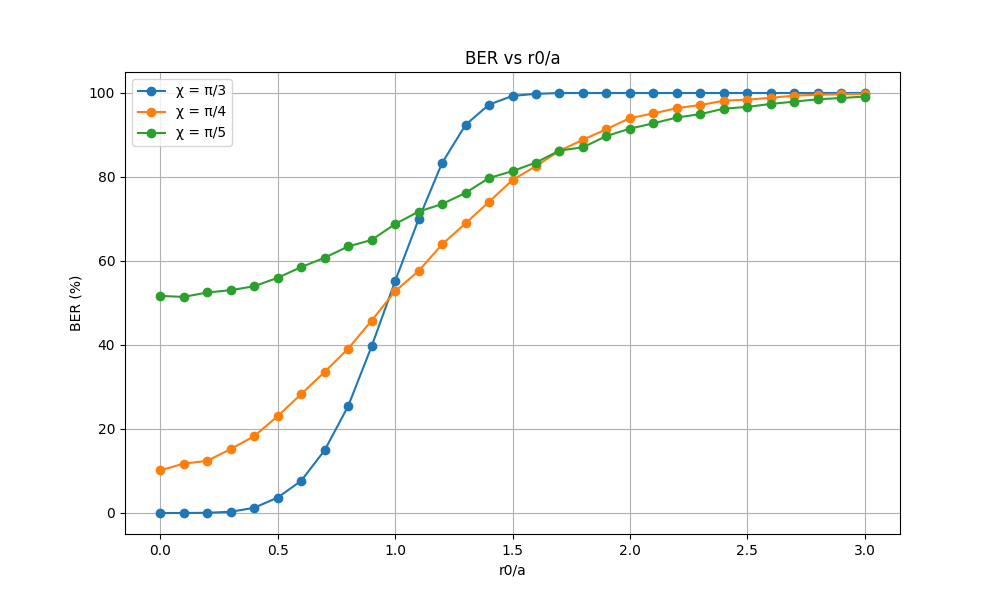
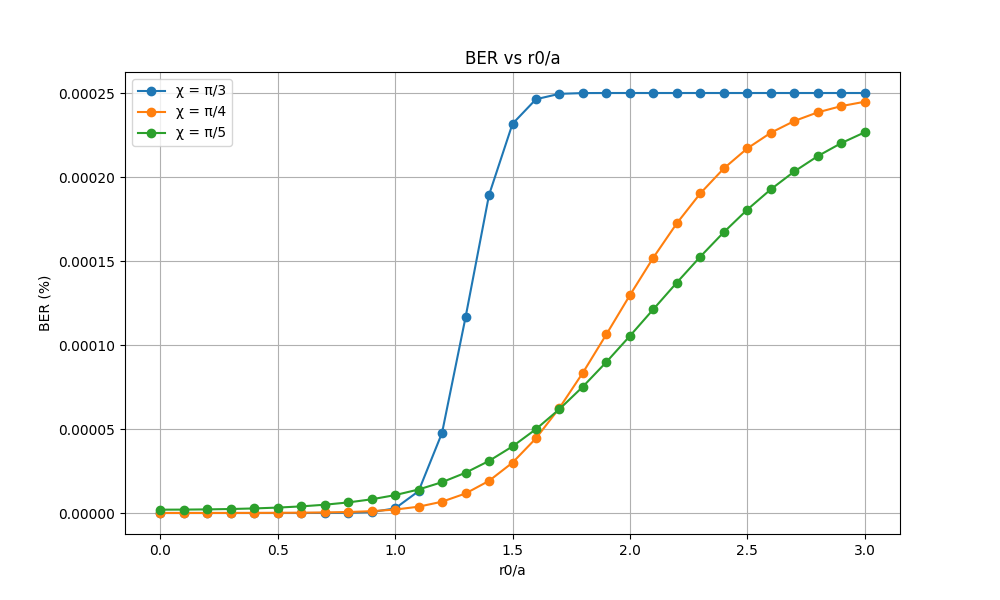
conduct a simulation for theoretical bir error rate(BER)

diff --git a/BB84/SimulationResult/qber.py b/BB84/SimulationResult/qber.py
@@ -1,22 +1,12 @@
-# Upgrade qiskit version to 2.0.0
-from qiskit import QuantumCircuit
-from qiskit_aer import AerSimulator
-from qiskit_aer.noise import (NoiseModel, pauli_error)
+from scipy.special import lambertw, i0, i1
 import math
 import numpy as np
-import socket
-import os, sys
 import matplotlib.pyplot as plt
+import os, sys
 simulation_path = os.path.abspath(os.path.join(os.path.dirname(__file__), '..', 'Model'))
 sys.path.append(simulation_path)
 from receiver_efficiency import transmissivity, to_decimal_string
 
-
-backend = AerSimulator()
-
-#===============Deefinition of parameter===============#
-count = 1000
-no_qubits = 20
 D_r = 0.35 # D_r    : Deceiver diameter in meters
 a = D_r/2  # a      : Aperture of radius (Receiver radis in meters)
 ratios = np.arange(0, 3.1, 0.1)
@@ -27,179 +17,33 @@ chi = [math.pi/3, math.pi/4, math.pi/5]
 chi_show = [3, 4, 5]
 
 
-class User:
-    def __init__(self, username: str, sharekey, socket_classical, socket_quantum):
-        self.username = username
-        self.sharekey = sharekey
-        self.socket_classical = socket_classical
-        self.socket_quantum = socket_quantum
-
-    def create_socket_for_classical(self):
-        SERVER_HOST_CLASSICAL = '127.0.0.1'
-        SERVER_PORT_CLASSICAL = 12001
-        client_socket_classical = socket.socket(socket.AF_INET, socket.SOCK_STREAM)
-        client_socket_classical.connect((SERVER_HOST_CLASSICAL, SERVER_PORT_CLASSICAL))
-        self.socket_classical = client_socket_classical        
-
-user0 = User("Alice", None, None, None) 
-user1 = User("Bob", None, None, None)
-
-
-def generate_Siftedkey(user0, user1, num_qubits, eta_b):
-    alice_bits = qrng(num_qubits)
-    alice_basis = qrng(num_qubits)
-    bob_basis = qrng(num_qubits)
-    eve_basis = qrng(num_qubits)
-
-    # Alice generates qubits
-    qc = compose_quantum_circuit(num_qubits, alice_bits, alice_basis)
-
-    # Quantum Circuit for Eve
-    qc2 = compose_quantum_circuit_for_eve(num_qubits, alice_bits, alice_basis)
-
-    # Comparison their basis between Alice and Eve
-    ae_basis, ae_match = check_bases(alice_basis, eve_basis)
-
-    # Apply the quantum error chanel
-    noise_model = apply_noise_model(eta_b)
-
-    # Bob measures Alice's qubit
-    qc, bob_bits = bob_measurement(qc, bob_basis, noise_model)
-
-    altered_qubits = 0
-
-    user0.create_socket_for_classical()
-    user1.create_socket_for_classical()
-    sender_classical_channel = user0.socket_classical
-    receiver_classical_channel = user1.socket_classical
-
-    ka = ''  # Alice's sifted key
-    kb = ''  # Bob's sifted key
-    err_num = 0
-
-    # Announce bob's basis
-    receiver_classical_channel.send(bob_basis.encode('utf-8'))
-    bob_basis = sender_classical_channel.recv(4096).decode('utf-8')
-    ab_basis, ab_matches = check_bases(alice_basis, bob_basis)
-    ab_bits = check_bits(alice_bits, bob_bits, ab_basis)
-
-    for i in range(num_qubits):
-        if ae_basis[i] != 'Y' and ab_basis[i] == 'Y': # Alice and Eve bases differ
-            altered_qubits += 1
-        if ab_basis[i] == 'Y':  # Alice and Bob bases match
-            ka += alice_bits[i]
-            kb += bob_bits[i]
-        if ab_bits[i] == '!':  # Bits differ
-            err_num += 1
-    err_str = ''.join(['!' if ka[i] != kb[i] else ' ' for i in range(len(ka))])
+#=======================================================#
+# Channel loss parameter
+#=======================================================#
+    #=====================#
+    # n_s   : average numher of photon
+    # n_D   : dark-current-equivalent averrage photon number
+    # eta   : 
+    # n_B   : background photons per polarization
+    # n_N   : the average number of noise photon reaching each detector
+    # gamma : the fraction of transmmited photon
+    #======================#
+n_s = 20
+n_D = math.pow(10, -6)
+eta = 0.5  
+n_B = math.pow(10, -3)
+n_N = n_B/2 + n_D
 
 
-    sender_classical_channel.close()
-    receiver_classical_channel.close()
-
-    return ka, kb
-
-
-def qrng(n):
-    qc = QuantumCircuit(n, n)
-    for i in range(n):
-        qc.h(i)  # Apply Hadamard gate
-    qc.measure(range(n), range(n))
-    job_result = backend.run(qc, shots=1).result()
-    counts = job_result.get_counts()
-
-    # 取得した測定結果の中で最も出現回数が多いものを採用
-    max_key = max(counts, key=counts.get)
-    bits = ''.join(reversed(max_key))  # ビット列を逆順にして取得
-
-    return bits
+def qber(gamma):
+    # prob_error = eta * n_N * math.exp(-eta(n_s*gamma+4*n_N))
+    prob_error = eta * n_N * math.exp(-eta * (n_s * gamma + 4 * n_N))
+    return prob_error
 
 
-def encode_qubits(n, k, a):
-    qc = QuantumCircuit(n, n)
-    for i in range(n):
-        if a[i] == '0':
-            if k[i] == '1':
-                qc.x(i)
-        else:
-            if k[i] == '0':
-                qc.h(i)
-            else:
-                qc.x(i)
-                qc.h(i)
-    qc.barrier()
-    return qc
-
-
-def compose_quantum_circuit(num_qubit, alice_bits, alice_basis) -> QuantumCircuit:
-    qc = QuantumCircuit(num_qubit, num_qubit)
-    qc.compose(encode_qubits(num_qubit, alice_bits, alice_basis), inplace=True)
-    return qc
-
-
-def compose_quantum_circuit_for_eve(num_qubit, alice_bits, alice_basis) -> QuantumCircuit:
-    qc2 = QuantumCircuit(num_qubit, num_qubit)
-    qc2.compose(encode_qubits(num_qubit, alice_bits, alice_basis), inplace=True)
-    return qc2
-
-
-def apply_noise_model(eta_b):
-    error_meas = pauli_error([('X', 1-eta_b), ('I', eta_b)])
-    noise_model = NoiseModel()
-    noise_model.add_all_qubit_quantum_error(error_meas, "measure")
-    return noise_model
-
-
-def bob_measurement(qc, bob_basis, noise_model):
-    for i in range(len(bob_basis)):
-        if bob_basis[i] == '1':  # Diagonal basis
-            qc.h(i)
-
-    qc.measure(range(len(bob_basis)), range(len(bob_basis)))
-
-    # Qiskit 2.0.0 では execute() を使わず backend.run(qc) を直接使用
-    # result = backend.run(qc, shots=1).result()
-    result = backend.run(qc, shots=1, noise_model=noise_model).result()
-    counts = result.get_counts()  # `.get_counts(0)` ではなく `.get_counts()` に変更
-
-    # 取得した測定結果の中で最も出現回数が多いものを採用
-    max_key = max(counts, key=counts.get)
-    bits = ''.join(reversed(max_key))  # ビット列を逆順にして取得
-
-    qc.barrier()
-    return qc, bits
-
-
-def check_bases(b1, b2):
-    check = ''
-    matches = 0
-    for i in range(len(b1)):
-        if b1[i] == b2[i]:
-            check += "Y"
-            matches += 1
-        else:
-            check += "-"
-    return check, matches
-
-
-def check_bits(b1, b2, bck):
-    check = ''
-    for i in range(len(b1)):
-        if b1[i] == b2[i] and bck[i] == 'Y':
-            check += 'Y'
-        elif b1[i] == b2[i] and bck[i] != 'Y':
-            check += 'R'
-        elif b1[i] != b2[i] and bck[i] == 'Y':
-            check += '!'
-        elif b1[i] != b2[i] and bck[i] != 'Y':
-            check += '-'
-    return check
-
-
-# Transmissity
-def simulation_eta_b():
+def simulation_gamma():
     # =======Definition of parameter =========== #
-    all_eta_b = []
+    all_gamma = []
 
     print("===============================")
     print(f'Aperture of radius (Receiver radis in meters): {a} m')
@@ -210,55 +54,34 @@ def simulation_eta_b():
         print(f'Chi: π / {chi_show[i]}')
 
         beam_centroid_displacement = [r / a for r in r0]
-        eta_b = [transmissivity(b, chi[i], mag_w1[i] * a, mag_w2[i] * a) for b in beam_centroid_displacement]
+        gamma = [transmissivity(b, chi[i], mag_w1[i] * a, mag_w2[i] * a) for b in beam_centroid_displacement]
         
-        # print("Transmissivity values:")
-        # for j, eta in enumerate(eta_b):
-        #     print(f"  r0/a = {ratios[j]} → <ηb> = {to_decimal_string(eta)}")
+        print("Transmissivity values:")
+        for j, eta in enumerate(gamma):
+            print(f"  r0/a = {ratios[j]} → <ηb> = {to_decimal_string(eta)}")
         
-        all_eta_b.append(eta_b)  # 各`eta_b`リストを追加
+        all_gamma.append(gamma)  # 各`eta_b`リストを追加
     
         print("===============================\n")
     
     print("Simulation Finish !!")
-    return all_eta_b  # 全てのeta_bリストを返す
-
-
-# Calculate the bit error rate
-def calculate_ber(ka, kb):
-    # キーの長さが一致していることを確認
-    if len(ka) != len(kb):
-        raise ValueError("Keys must be of the same length")
-
-    # エラー数のカウント
-    error_count = sum(1 for bit_a, bit_b in zip(ka, kb) if bit_a != bit_b)
-
-    # BERの計算
-    ber = (error_count / len(ka)) * 100
-    return ber
-
+    return all_gamma  # 全てのeta_bリストを返す
 
 def main():
-    all_ber_results = []
-    all_eta_b = simulation_eta_b()
+    all_prob_error = []
+    all_gamma = simulation_gamma()
     for i, (mag_w1_value, mag_w2_value, chi_value) in enumerate(zip(mag_w1, mag_w2, chi)):
-        ber_results = []
-        for j, ratio in enumerate(ratios):
-            eta_b = all_eta_b[i][j]
-            ka = ''
-            kb = ''
-            for _ in range(count):
-                part_ka, part_kb = generate_Siftedkey(user0, user1, no_qubits, eta_b)
-                ka += part_ka
-                kb += part_kb
-            ber = calculate_ber(ka, kb)
-            ber_results.append(ber)
-        all_ber_results.append(ber_results)
+        prob_error_result = []
+        for j, _ in enumerate(ratios):
+            gamma = all_gamma[i][j]
+            prob_error = qber(gamma)
+            prob_error_result.append(prob_error)
+        all_prob_error.append(prob_error_result)
 
     plt.figure(figsize=(10, 6))
-    for i, ber_results in enumerate(all_ber_results):
+    for i, prob_error in enumerate(all_prob_error):
         # plt.plot(ratios, ber_results, marker='o', label=f'Condition {i+1}')
-        plt.plot(ratios, ber_results, marker='o', label=f'χ = π/{chi_show[i]}')
+        plt.plot(ratios, prob_error, marker='o', label=f'χ = π/{chi_show[i]}')
 
     # グラフの描画
     # plt.figure()
@@ -270,8 +93,8 @@ def main():
     output_path = os.path.join(os.path.dirname(__file__), "qber_plot.png")
     plt.savefig(output_path)
     print(f"✅ Save as: {output_path}")
-    plt.show()
+    plt.show()   
 
 
-if __name__ == '__main__':
+if __name__ == "__main__":
     main()
